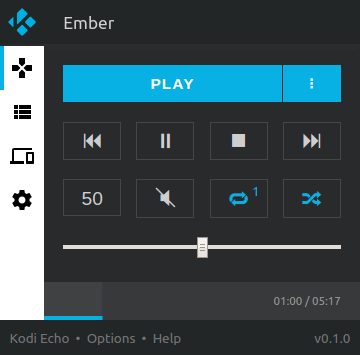
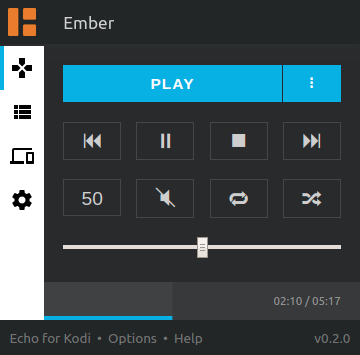
Comply with Kodi trademark policy
After consulting with the Kodi team, the extension was rebranded
in order to comply with the Kodi trademark policy.

diff --git a/src/modules/views/footer.js b/src/modules/views/footer.js
@@ -3,7 +3,7 @@ import { html } from './../utils/dom.js';
 export default (store, i18n, manifest) => html`
   <footer class="c-footer">
     <div class="c-footer__name">
-      <a href="https://www.github.com/jaylinski/kodi-echo" target="_blank">Kodi Echo</a>
+      <a href="https://www.github.com/jaylinski/kodi-echo" target="_blank">${manifest.name}</a>
       <span>&nbsp;&bull;&nbsp;</span>
       <a @click="${() => store.commit('route', 'options')}" href="#">${i18n.getMessage('footerOptions')}</a>
       <span>&nbsp;&bull;&nbsp;</span>

diff --git a/readme.md b/readme.md
@@ -1,18 +1,18 @@
-# [Kodi](https://github.com/xbmc/xbmc) Echo &horbar; Browser Extension
+# Echo for [Kodi](https://github.com/xbmc/xbmc) &horbar; Browser Extension
 
-<img align="right" src="https://github.com/xbmc/xbmc/raw/master/addons/webinterface.default/icon-128.png" alt="Kodi logo">
+<img align="right" width="128" src="src/assets/logo.png" alt="Echo for Kodi logo">
 
 ![GitHub tag (latest SemVer)](https://img.shields.io/github/tag/jaylinski/kodi-echo.svg)
 ![npm dependencies](https://img.shields.io/david/jaylinski/kodi-echo.svg)
 
-Kodi Echo lets you share your favorite content with Kodi (XBMC).
+Echo for Kodi lets you share your favorite content with Kodi (XBMC).
 
 Should work with all [WebExtension](https://developer.mozilla.org/en-US/Add-ons/WebExtensions) compatible browsers 
 including Mozilla Firefox, Google Chrome and Microsoft Edge.
 
 If you want to try a more complete and robust extension, 
 consider installing the [Play to Kodi](https://github.com/khloke/play-to-xbmc-chrome) Chrome extension.
-Check out the [comparison between Kodi Echo and Play to Kodi](#comparison-with-play-to-kodi) for more details.
+Check out the [comparison between Echo for Kodi and Play to Kodi](#comparison-with-play-to-kodi) for more details.
 
 ## Features
 
@@ -22,9 +22,9 @@ Check out the [comparison between Kodi Echo and Play to Kodi](#comparison-with-p
 * Built with the latest technologies the web offers.
 
 <p align="center">
-<img align="top" width="297" src="screenshots/screenshot_1_controls.png" alt="Screenshot controls">
-<img align="top" width="298" src="screenshots/screenshot_2_playlist.png" alt="Screenshot playlist">
-<img align="top" width="275" src="screenshots/screenshot_3_device.png" alt="Screenshot device">
+<img align="top" width="290" src="screenshots/screenshot_1_controls.png" alt="Screenshot controls">
+<img align="top" width="290" src="screenshots/screenshot_2_playlist.png" alt="Screenshot playlist">
+<img align="top" width="290" src="screenshots/screenshot_3_device.png" alt="Screenshot device">
 </div>
 
 ## Installation
@@ -87,18 +87,18 @@ It only sends requests to your configured Kodi host.
 
 #### Comparison with Play to Kodi
 
-|                        | Kodi Echo  | [Play to Kodi](https://github.com/khloke/play-to-xbmc-chrome) |
-| ---------------------- | ---------- | ------------ |
-| Avoids content scripts | ✅          | ❎           |
-| Adds a context menu    | ✅          | ✅           |
-| Replay notifications   | ✅          | ❎           |
-| Key mappings           | ❎          | ✅           |
-| Favorites              | ❎          | ✅           |
-| Multiple devices       | ❎          | ✅           |
-| Number of plugins      | 5          | \> 30        |
-| Languages (i18n)       | 2 (en, de) | 1 (en)       |
-| Communication          | WebSockets | HTTP         |
-| Uses standard WebExtensions API | ✅ | ❎           |
+|                        | Echo for Kodi | [Play to Kodi](https://github.com/khloke/play-to-xbmc-chrome) |
+| ---------------------- | ------------- | ------------ |
+| Avoids content scripts | ✅             | ❎           |
+| Adds a context menu    | ✅             | ✅           |
+| Replay notifications   | ✅             | ❎           |
+| Key mappings           | ❎             | ✅           |
+| Favorites              | ❎             | ✅           |
+| Multiple devices       | ❎             | ✅           |
+| Number of plugins      | 5             | \> 30        |
+| Languages (i18n)       | 2 (en, de)    | 1 (en)       |
+| Communication          | WebSockets    | HTTP         |
+| Uses standard WebExtensions API | ✅    | ❎           |
 
 ## Development
 
@@ -131,4 +131,4 @@ awesome Kodi projects [Chorus2](https://github.com/xbmc/chorus2) and [Kore](http
 
 ## Copyright and license
 
-Kodi Echo is licensed under the MIT License - see the `LICENSE` file for details.
+Echo for Kodi is licensed under the MIT License - see the `LICENSE` file for details.
